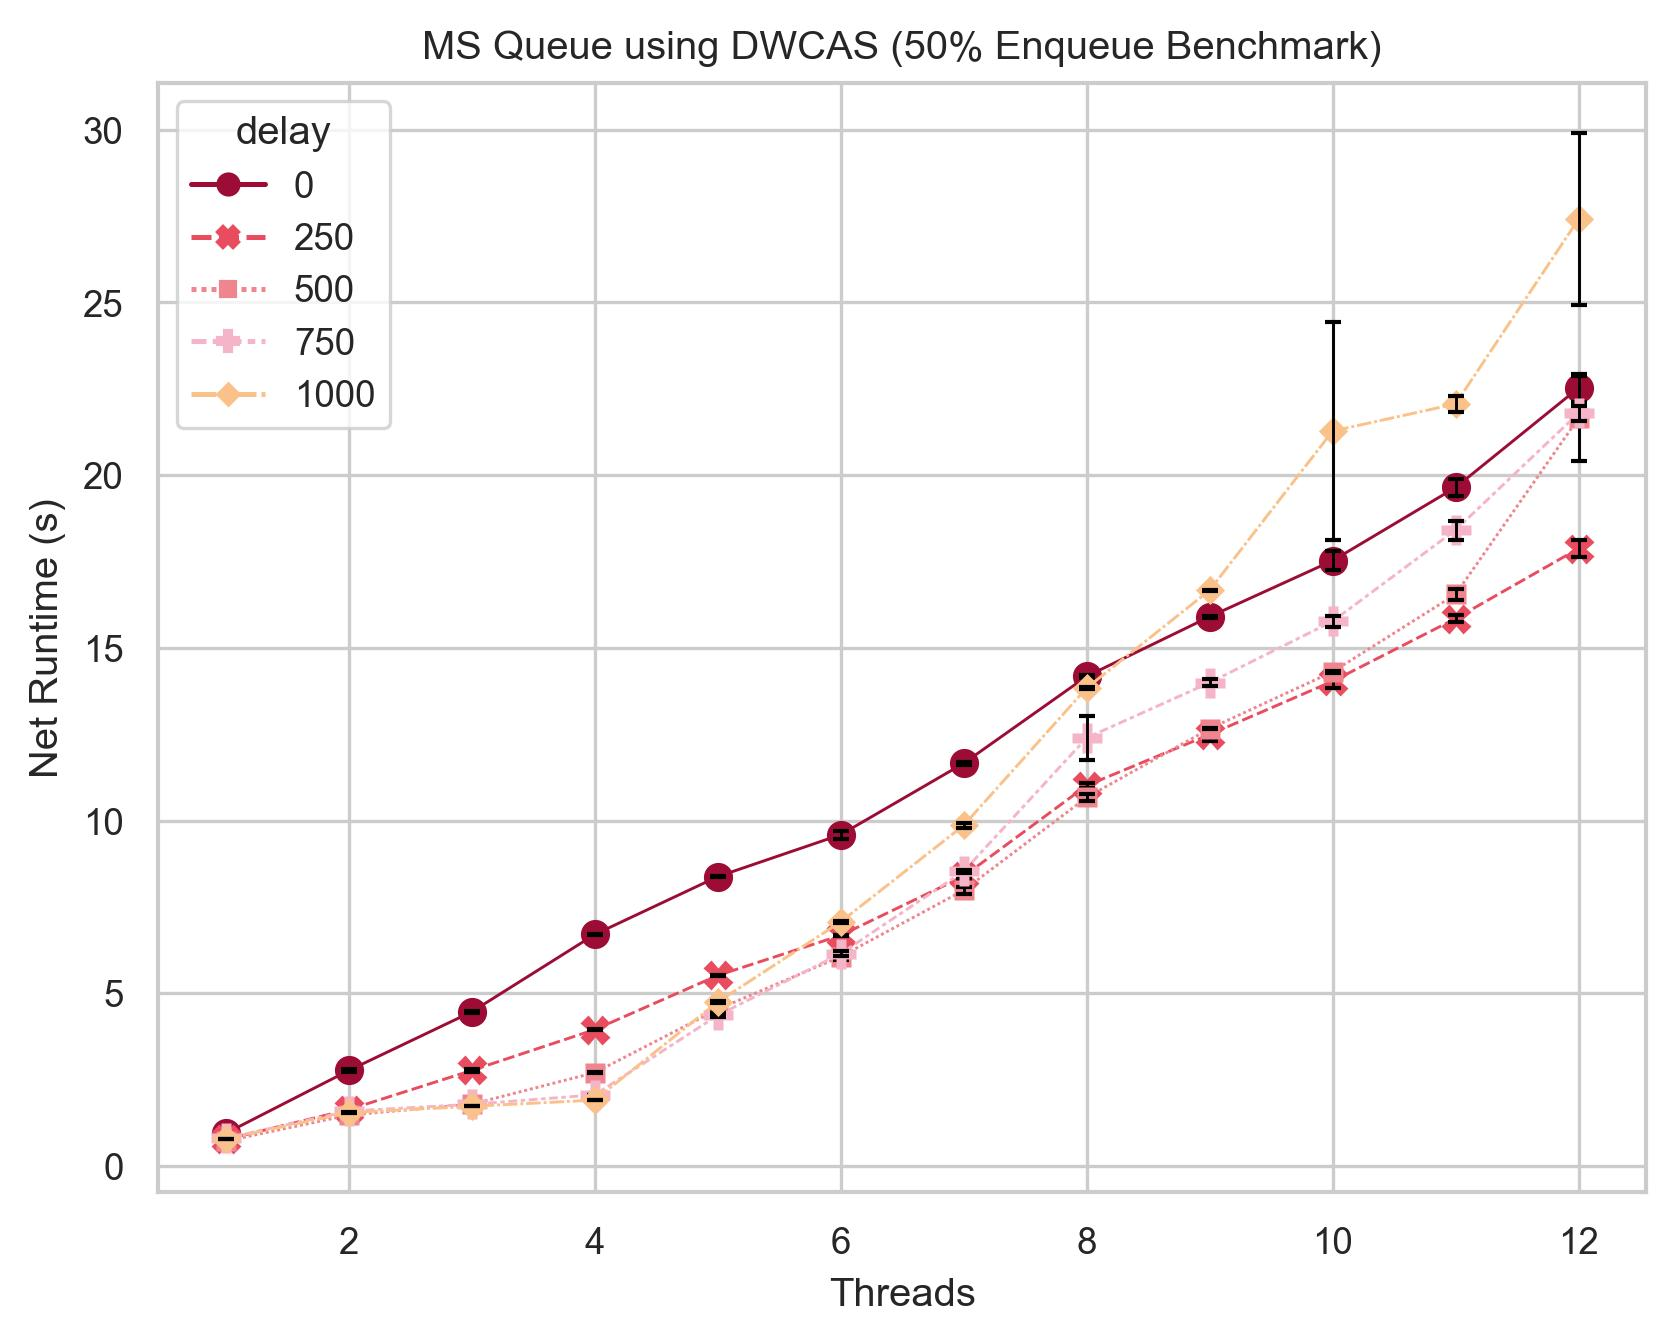
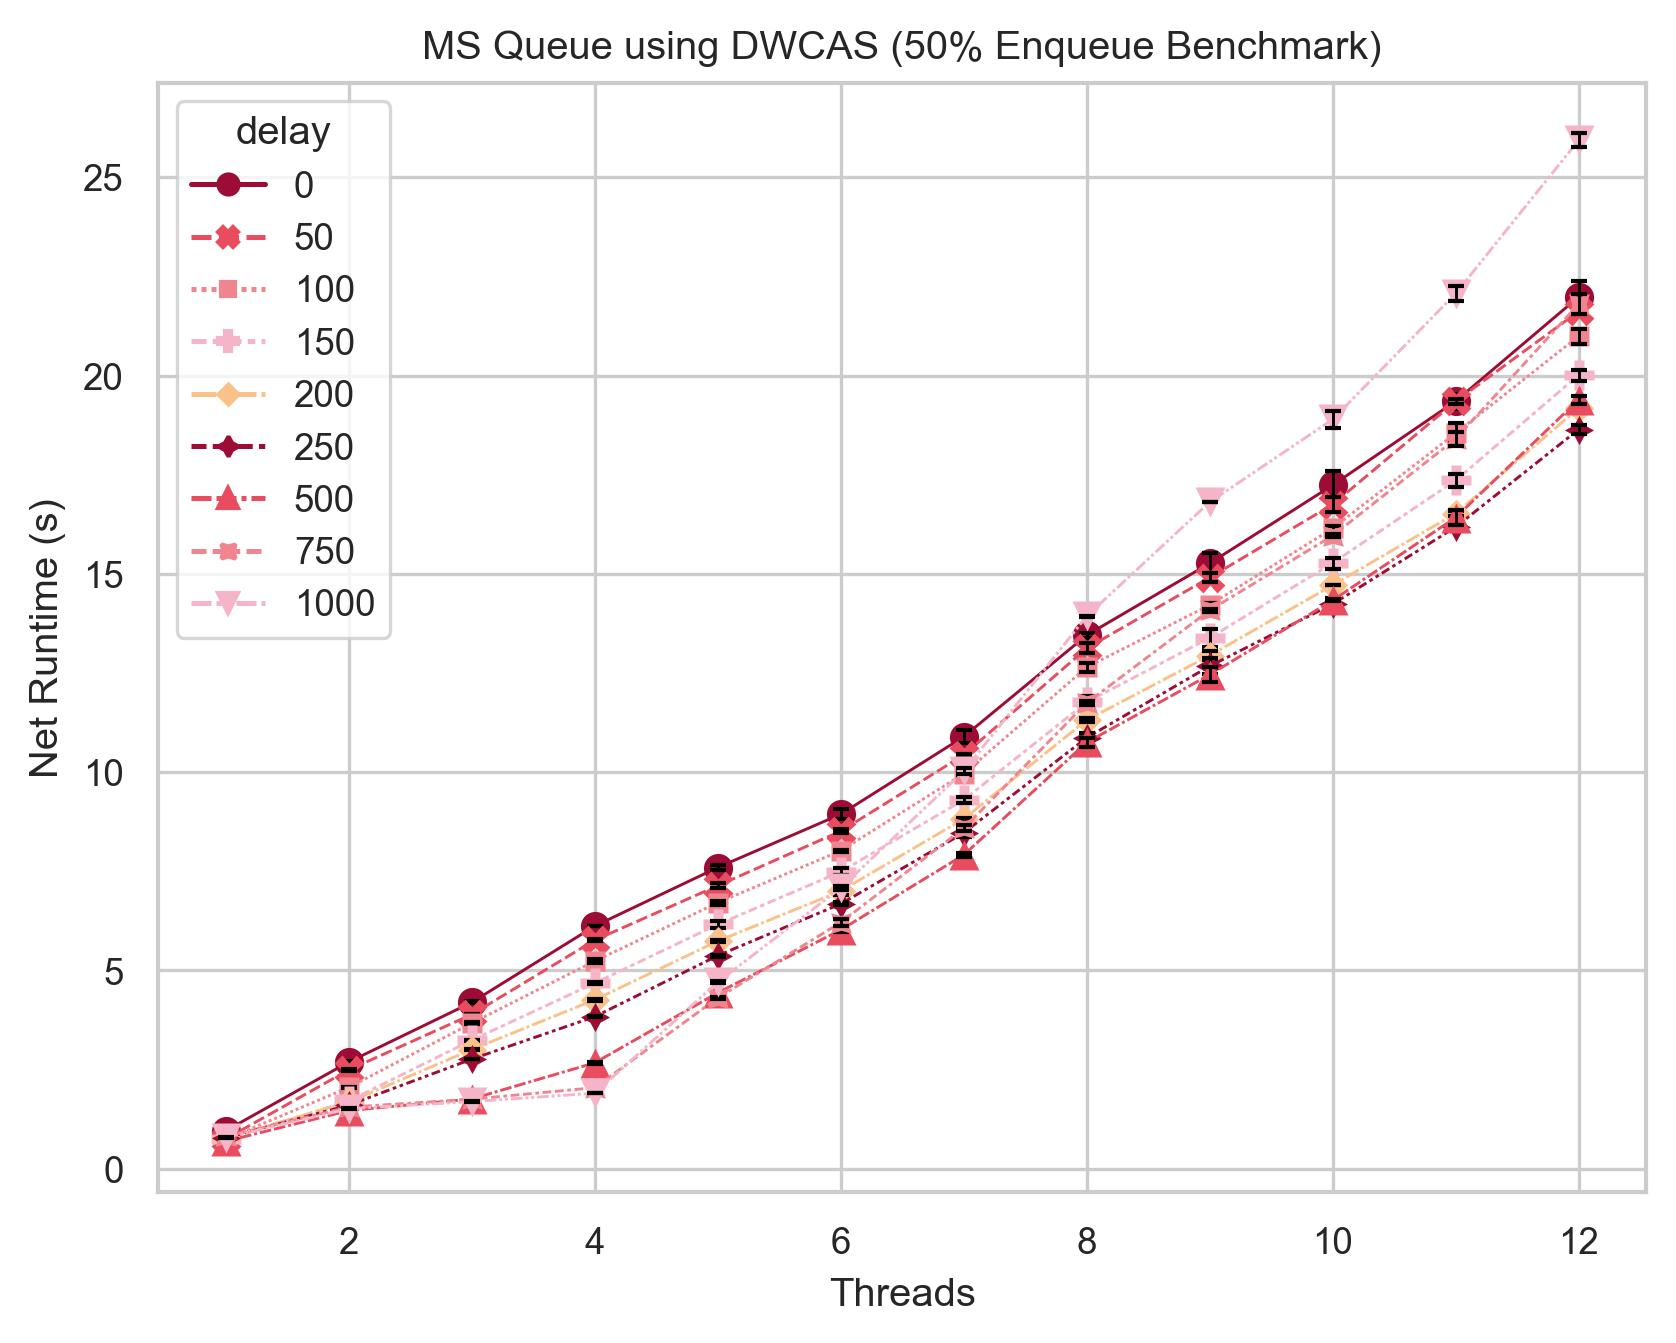
Add plot_coefficient_of_variance

diff --git a/src/utils/plot.py b/src/utils/plot.py
@@ -6,6 +6,7 @@ import os
 import pandas as pd
 import seaborn as sns
 import matplotlib.pyplot as plt
+import numpy as np
 
 # Taken from: https://regenerativetoday.com/some-tricks-to-make-matplotlib-visualization-even-better/
 # from mpl_toolkits.axes_grid1.inset_locator import mark_inset, inset_axes
@@ -20,7 +21,7 @@ PLOT_CONTEXT = "paper"
 # PLOT_CONTEXT = "poster"
 
 err_style = {
-    "err_style" : "band" if PLOT_CONTEXT == "poster" else "bars",
+    "err_style": "band" if PLOT_CONTEXT == "poster" else "bars",
 }
 
 if PLOT_CONTEXT != "poster":
@@ -33,7 +34,7 @@ sns_kwargs = {
     "markeredgecolor": "none",
     "linewidth": LINE_WIDTH,
     "markersize": MARKER_SIZE,
-    **err_style
+    **err_style,
 }
 
 labels_kwargs = {"xlabel": "Threads", "ylabel": "Net Runtime (s)"}
@@ -46,9 +47,11 @@ sns.set_style(grid_style)
 sns.set_context("paper")
 sns.set_palette(sns.color_palette(uom_color_palette))
 
+
 def set_legend_location(ax: plt.Axes):
     if PLOT_CONTEXT == "poster":
         sns.move_legend(ax, "best", fontsize="small")
+
 
 def save_plot(ax: plt.Axes, output_file_name: str, plot_title: str, dpi: int):
     ax.set(title=plot_title, **labels_kwargs)
@@ -57,7 +60,6 @@ def save_plot(ax: plt.Axes, output_file_name: str, plot_title: str, dpi: int):
 
 
 def plot_grouped_results(
-    delay: int,
     input_file_name: str,
     output_file_name: str,
     plot_title: str,
@@ -67,7 +69,6 @@ def plot_grouped_results(
     Plot the readings of each queue for a specific delay, all in one graph.
 
     Args:
-        delay:int - Chooses what readings to display based on the provided delay.
         input_file_name:str - The name of the csv file (excluding ".csv") where
         the data to be processed resides.
         output_file_name:str - The name of the outputted JPEG file.
@@ -77,27 +78,29 @@ def plot_grouped_results(
     """
 
     df = pd.read_csv(f"{input_file_name}.csv")
-    individual_delay_df = df.query(f"delay == {str(delay)}").sort_values(by="name")
-    palette = sns.color_palette(n_colors=len(df["name"].unique()))
+    delays = df["delay"].unique()
+    for delay in delays:
+        individual_delay_df = df.query(f"delay == {str(delay)}").sort_values(by="name")
+        palette = sns.color_palette(n_colors=len(df["name"].unique()))
 
-    ax = sns.lineplot(
-        data=individual_delay_df,
-        x="threads",
-        y="net_runtime_s",
-        style="name",
-        hue="name",
-        palette=palette,
-        **sns_kwargs,
-    )
+        ax = sns.lineplot(
+            data=individual_delay_df,
+            x="threads",
+            y="net_runtime_s",
+            style="name",
+            hue="name",
+            palette=palette,
+            **sns_kwargs,
+        )
 
-    plot_title = plot_title.replace("(", "").replace(")", "")
-    plot_title = f"{plot_title} ({delay}ns delay)"
+        temp_plot_title = plot_title.replace("(", "").replace(")", "")
+        temp_plot_title = f"{temp_plot_title} ({delay}ns delay)"
 
-    ax.get_legend().set_title("Queue")
+        ax.get_legend().set_title("Queue")
 
-    set_legend_location(ax)
+        set_legend_location(ax)
 
-    save_plot(ax, f"{IMAGES_PATH}/{output_file_name}.jpg", plot_title, dpi)
+        save_plot(ax, f"{IMAGES_PATH}/{output_file_name}_{delay}.jpg", temp_plot_title, dpi)
 
 
 def plot_individual_results(
@@ -139,24 +142,58 @@ def plot_individual_results(
         save_plot(ax, file_path, title, dpi)
 
 
+def plot_coefficient_of_variance(
+    input_file: str, output_file: str, plot_title: str, dpi: int = 300
+):
+    df = pd.read_csv(f"{input_file}.csv")
+    df_group = df.groupby(by=["name", "threads", "delay"], as_index=False)
+    df_agg = df_group.agg(
+        mean=("net_runtime_s", np.mean), stdev=("net_runtime_s", np.std)
+    )
+    df_agg["coeff_of_var"] = df_agg.apply(
+        lambda x: (x["stdev"] * 100) / x["mean"], axis=1
+    )
+
+    ax = sns.catplot(
+        x="delay",
+        y="coeff_of_var",
+        col="threads",
+        hue="name",
+        data=df_agg,
+        kind="bar",
+        col_wrap=4,
+    )
+
+    ax.set_xlabels("Delay")
+    ax.set_ylabels("Coefficient of Variance (%)")
+    ax.figure.suptitle(
+        "Coefficient of Variance of Tests $\\frac{\\sigma}{\\mu}$ " + plot_title
+    )
+    ax.savefig(f"{IMAGES_PATH}/{output_file}_cov.jpg")
+
+
 ENQUEUE_DEQUEUE_TITLE = "(Pairwise Benchmark)"
 ENQEUUE_DEQUEUE_FILE_NAME = "enqueue_dequeue_results"
 P_ENQUEUE_DEQUEUE_TITLE = "(50% Enqueue Benchmark)"
 P_ENQUEUE_DEQUEUE_FILE_NAME = "p_enqueue_dequeue_results"
 
 plot_grouped_results(
-    250, "enqueue_dequeue_results", "grouped_enqueue_dequeue", ENQUEUE_DEQUEUE_TITLE
+    "enqueue_dequeue_results", "grouped_enqueue_dequeue", ENQUEUE_DEQUEUE_TITLE
 )
 plot_grouped_results(
-    250,
     "p_enqueue_dequeue_results",
     "p_grouped_enqueue_dequeue",
     P_ENQUEUE_DEQUEUE_TITLE,
 )
-
 plot_individual_results(
     "enqueue_dequeue_results", "enqueue_dequeue", ENQUEUE_DEQUEUE_TITLE
 )
 plot_individual_results(
+    "p_enqueue_dequeue_results", "p_enqueue_dequeue", P_ENQUEUE_DEQUEUE_TITLE
+)
+plot_coefficient_of_variance(
+    "enqueue_dequeue_results", "enqueue_dequeue", ENQUEUE_DEQUEUE_TITLE
+)
+plot_coefficient_of_variance(
     "p_enqueue_dequeue_results", "p_enqueue_dequeue", P_ENQUEUE_DEQUEUE_TITLE
 )
